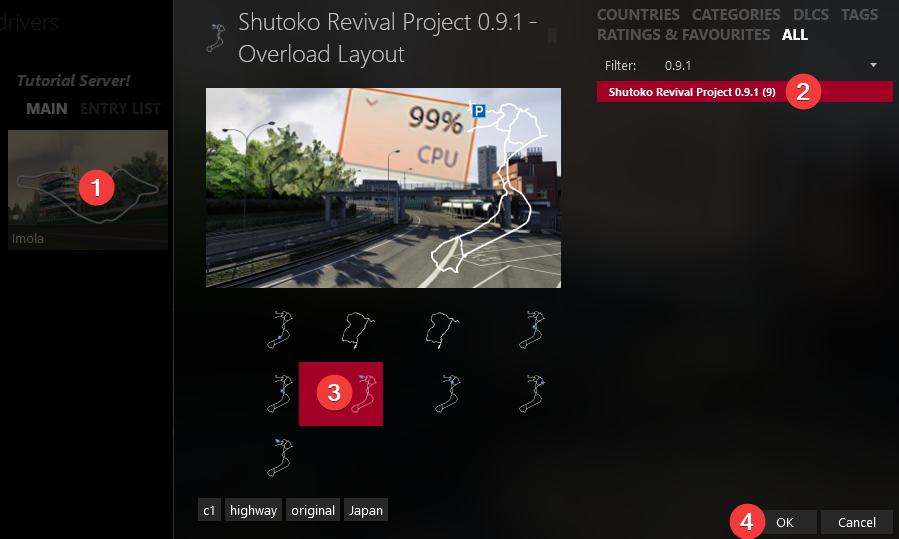
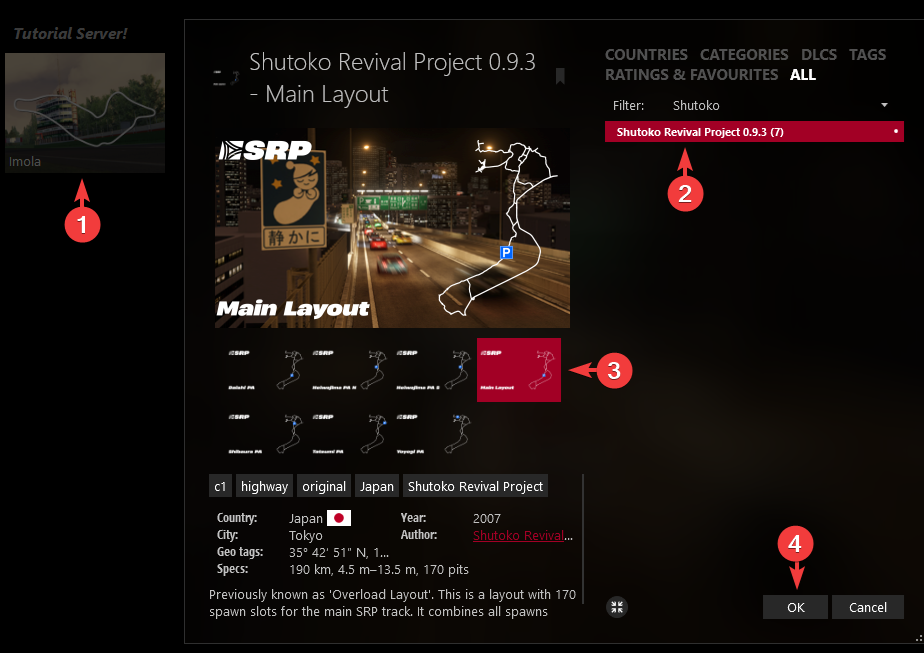
TBG: updated to 093 Main Layout

diff --git a/versioned_docs/version-0.0.54/thebeginnersguide.md b/versioned_docs/version-0.0.54/thebeginnersguide.md
@@ -80,7 +80,7 @@ For now, we will be using the minimum amount of cars needed for the default traf
    
    ![](./assets/guide/9.png)
 
-3. Click on the track preview image of Imola and change the track to Shutoko Revival Project - Tatsumi PA.
+3. Click on the track preview image of Imola and change the track to Shutoko Revival Project - Main Layout.
    
    ![](./assets/guide/10.png)
 
@@ -101,7 +101,7 @@ For now, we will be using the minimum amount of cars needed for the default traf
    When adding more cars, remember to also increase the `Capacity` slider, otherwise only the first 11 cars will get loaded.
 
    Only add as many cars as there are pits available for the layout of the track you've chosen.  
-   The limit is displayed below the `Capacity` slider and for Shutoko Revival Project - Tatsumi PA looks like this:  
+   The limit is displayed below the `Capacity` slider and for Shutoko Revival Project - Main Layout looks like this:  
 
    ![](./assets/guide/caution1.png)
 
@@ -366,7 +366,7 @@ If you feel like you don't need a step-by-step explanation, read over the [FAQ s
     The version ID `2144` will mean that in order to join the server, players will need to have **at least** CSP version 1.79 installed.  
     If you want to require a different CSP version and don't know how where to get the ID from, read this [FAQ section](./faq.md#requiring-csp-version).
 
-4.  Save and close the file and navigate to the `\content\tracks\csp\shuto_revival_project_beta\tatsumi_pa\data` folder of the server and open the `surfaces.ini`.  
+4.  Save and close the file and navigate to the `\content\tracks\csp\shuto_revival_project_beta\main_layout\data` folder of the server and open the `surfaces.ini`.  
     Change the name of the first surface from `SURFACE_0` to `CSPFACE_0`
     
     :::caution

diff --git a/docs/thebeginnersguide.md b/docs/thebeginnersguide.md
@@ -78,7 +78,7 @@ For now, we will be using the minimum amount of cars needed for the default traf
    
    ![](./assets/guide/cmconfig2.png)
 
-3. Click on the track preview image of Imola and change the track to Shutoko Revival Project - Overload Layout.
+3. Click on the track preview image of Imola and change the track to Shutoko Revival Project - Main Layout.
    
    ![](./assets/guide/cmconfig3.png)
 
@@ -101,7 +101,7 @@ For now, we will be using the minimum amount of cars needed for the default traf
    When adding more cars, remember to also increase the `Capacity` slider, otherwise only the first 11 cars will get loaded.
 
    Only add as many cars as there are pits available for the layout of the track you've chosen.  
-   The limit is displayed below the `Capacity` slider and for Shutoko Revival Project - Tatsumi PA looks like this:  
+   The limit is displayed below the `Capacity` slider and for Shutoko Revival Project - Main Layout looks like this:  
 
    ![](./assets/guide/caution1.png)
 
